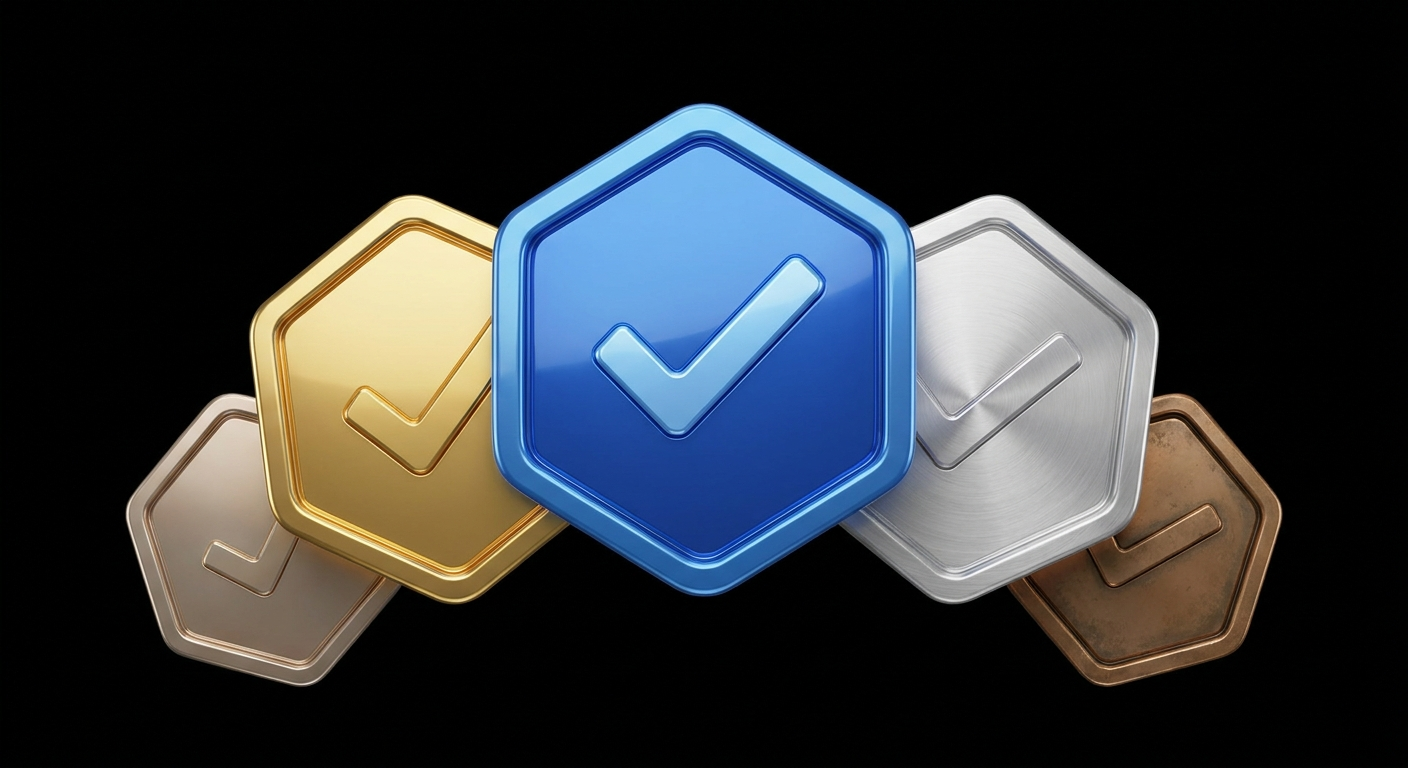
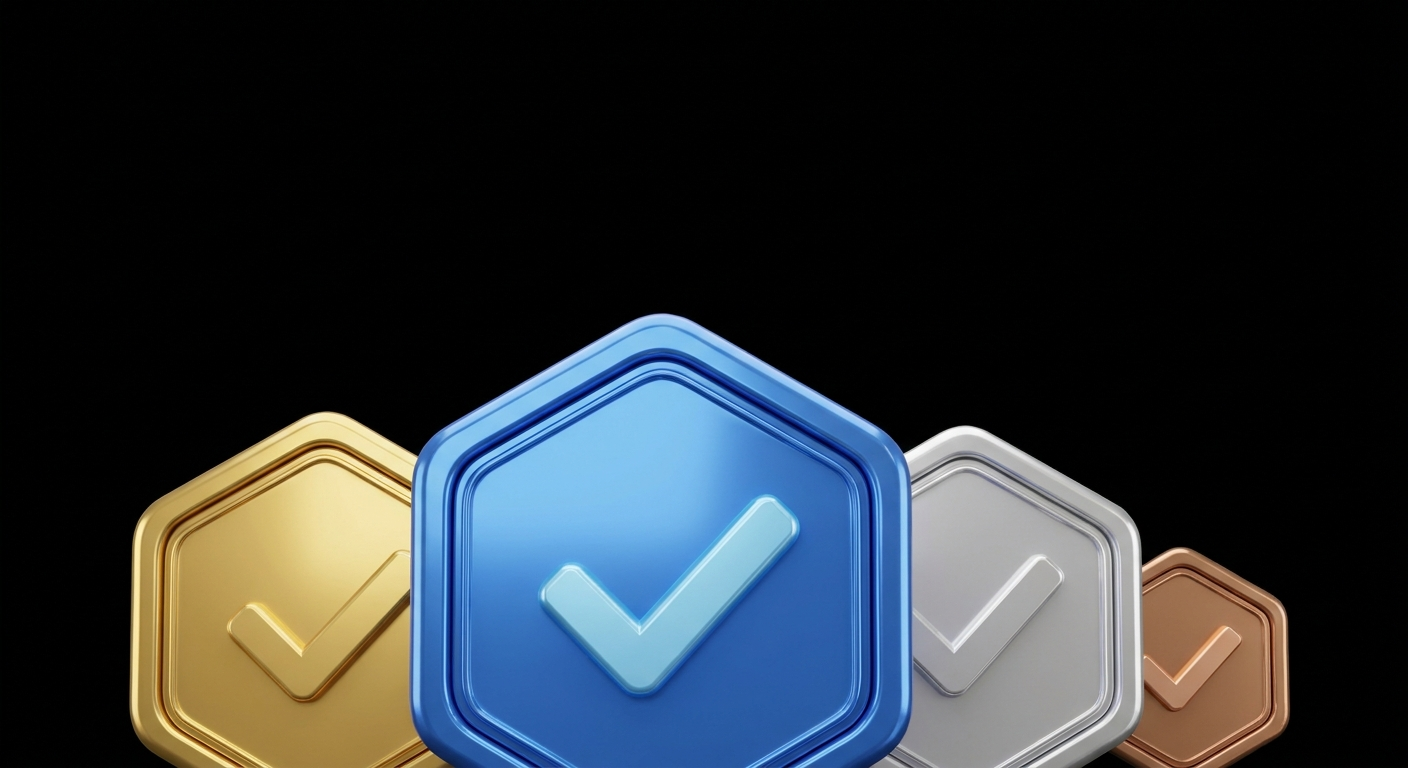
**Our Trading Service section enlarged on Blockscaner Pro** - The section is now wider (72rem max-width) so the cards fit the reference images better — the left card shows the trading terminal photo and the right green card shows the API nodes image, both at full card width at the bottom - Checked: 
Emergent-Commit-Key: 84376e4b6a9297d34021070e497956cf0cb2ffc1e2678961114a3731ab020d3e

diff --git a/frontend/src/pages/platform/Pro.tsx b/frontend/src/pages/platform/Pro.tsx
@@ -4,6 +4,8 @@ import { t as _t } from "@/i18n";
 import { ArrowRight } from "lucide-react";
 import traderDesk from "@/assets/pro/trader-desk.png";
 import feeMedals from "@/assets/pro/fee-medals.png";
+import tradingTerminal from "@/assets/pro/trading-terminal.png";
+import apiNodes from "@/assets/pro/api-nodes.png";
 
 /* Blurry candlestick chart backdrop */
 function ProBackdrop() {
@@ -95,6 +97,31 @@ export default function Pro() {
                 {_t("Discover Clubs")} <ArrowRight size={14} />
               </a>
               <img src={feeMedals} alt="Blue, gold, silver and bronze check-mark medals" loading="lazy" />
+            </article>
+          </div>
+        </section>
+
+        {/* our trading service */}
+        <section className="pro-service">
+          <h2>{_t("Our Trading Service")}</h2>
+          <p className="pro-markets-sub">{_t("Leverage complex order types to enhance your trading strategies. Our platform enables simultaneous order placements and automated risk monitoring for effective portfolio management.")}</p>
+          <div className="pro-service-grid">
+            <article className="pro-mcard pro-scard pro-scard-dark" data-testid="pro-tradingview-card">
+              <div className="pro-mcard-body">
+                <h3>{_t("Precision")} <em>Trading</em> {_t("with TradingView")}</h3>
+                <p>{_t("Analyse market trends and spot trading opportunities with advanced charts and 80+ technical indicators integrated from TradingView.")}</p>
+              </div>
+              <img className="pro-scard-img" src={tradingTerminal} alt="Professional trading terminal with candlestick chart" loading="lazy" />
+            </article>
+            <article className="pro-mcard pro-scard pro-scard-green" data-testid="pro-api-card">
+              <div className="pro-mcard-body">
+                <h3>{_t("High-Performance API")}</h3>
+                <h4>{_t("Connect via API, WebSocket, or REST with IP whitelisting capabilities for secure, customised access.")}</h4>
+                <a className="pro-mbtn" href="/products" onClick={(e) => e.preventDefault()} data-testid="pro-api-btn">
+                  {_t("Find out more")} <ArrowRight size={14} />
+                </a>
+              </div>
+              <img className="pro-scard-img" src={apiNodes} alt="API network nodes" loading="lazy" />
             </article>
           </div>
         </section>

diff --git a/frontend/src/index.css b/frontend/src/index.css
@@ -1229,8 +1229,23 @@ html {
   color:#04140b; border-radius:99px; padding:.5rem 1.1rem; font-size:.8rem; font-weight:800;
   text-decoration:none; transition:background-color .15s; }
 .pro-mbtn:hover{ background:#4bf09e; }
+.pro-service{ position:relative; z-index:2; max-width:72rem; margin:0 auto; padding:2rem 1.5rem 7rem;
+  text-align:center; }
+.pro-service h2{ color:#fff; font-size:clamp(2rem,4.2vw,3.2rem); font-weight:800; letter-spacing:-.03em;
+  line-height:1.12; margin:0; }
+.pro-service-grid{ display:grid; grid-template-columns:1.35fr 1fr; gap:1.4rem; margin-top:2.6rem; }
+.pro-scard{ padding:0; }
+.pro-scard .pro-mcard-body{ padding:1.8rem 1.8rem 0; }
+.pro-scard h3{ font-size:1.6rem; }
+.pro-scard h4{ color:#fff; font-size:1.45rem; font-weight:800; letter-spacing:-.01em; line-height:1.25;
+  margin:.8rem 0 0; }
+.pro-scard-green{ background:linear-gradient(160deg, #0e5c36 0%, #084527 55%, #063420 100%); border-color:#125c38; }
+.pro-scard-green h4{ color:#2ee58a; }
+.pro-scard-art{ margin-top:1.6rem; border-radius:0 0 20px 20px; overflow:hidden; }
+.pro-scard-img{ display:block; width:100%; height:auto; margin-top:1.6rem; border-radius:0 0 20px 20px; object-fit:cover; }
 @media (max-width:860px){
   .pro-markets-grid{ grid-template-columns:1fr; }
+  .pro-service-grid{ grid-template-columns:1fr; }
 }
 .pro-hero-bg{ position:absolute; inset:0; width:100%; height:100%; }
 .pro-page::after{ content:""; position:absolute; inset:0;

diff --git a/backend/scripts/gen_pro_art.py b/backend/scripts/gen_pro_art.py
@@ -18,6 +18,8 @@ MODEL = "gemini-3-pro-image-preview"
 IMAGES = [
     ("trader-desk", "soft-focus photograph, heavily blurred bokeh: a man with a beard and glasses seen from behind/side, working at a desktop monitor in a bright modern office, large green plants around, bright natural daylight through big windows, light grey and green tones, shallow depth of field, dreamy out-of-focus background, photorealistic, landscape composition, no text, no watermark"),
     ("fee-medals", "3D render on a pure black background: one large glossy blue hexagonal badge with a lighter-blue check mark in the centre front, flanked by a gold hexagonal badge on the left and a silver hexagonal badge on the right, plus a small bronze hexagonal badge at the far right, each with a subtle check mark, arranged as overlapping membership tier medals at the bottom of the frame with dark empty space above, premium fintech style, soft studio lighting, vibrant blue gold and silver, no text, no watermark"),
+    ("trading-terminal", "dark professional crypto trading terminal interface screenshot, full screen: candlestick chart with green and red candles, volume bars at bottom, order book panel on the right side, BTC-EUR price header at top, dark navy and black background, TradingView style, no text labels legible, landscape composition, photorealistic UI render"),
+    ("api-nodes", "minimalist 3D render on a dark green gradient background: a single large dark circular node at the bottom centre, with exactly 6 clean glowing green lines fanning upward from it to 6 small simple glowing green node circles arranged in a gentle arc above, sparse clean network topology, premium fintech style, dark emerald and bright green, no text, landscape composition, minimal, uncluttered"),
 ]
 
 
